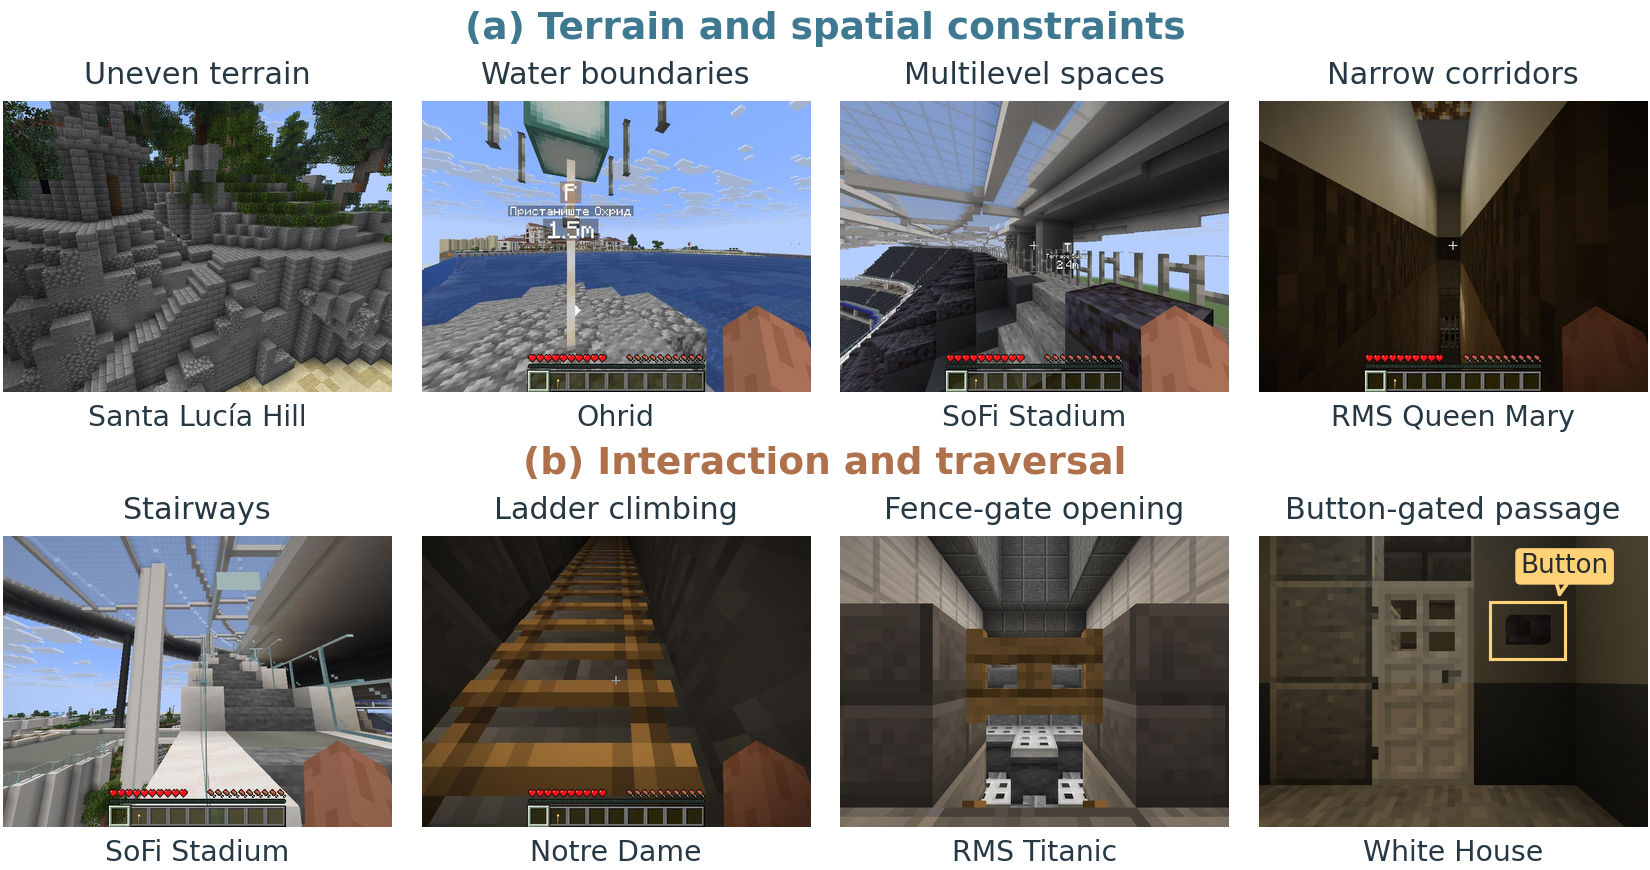
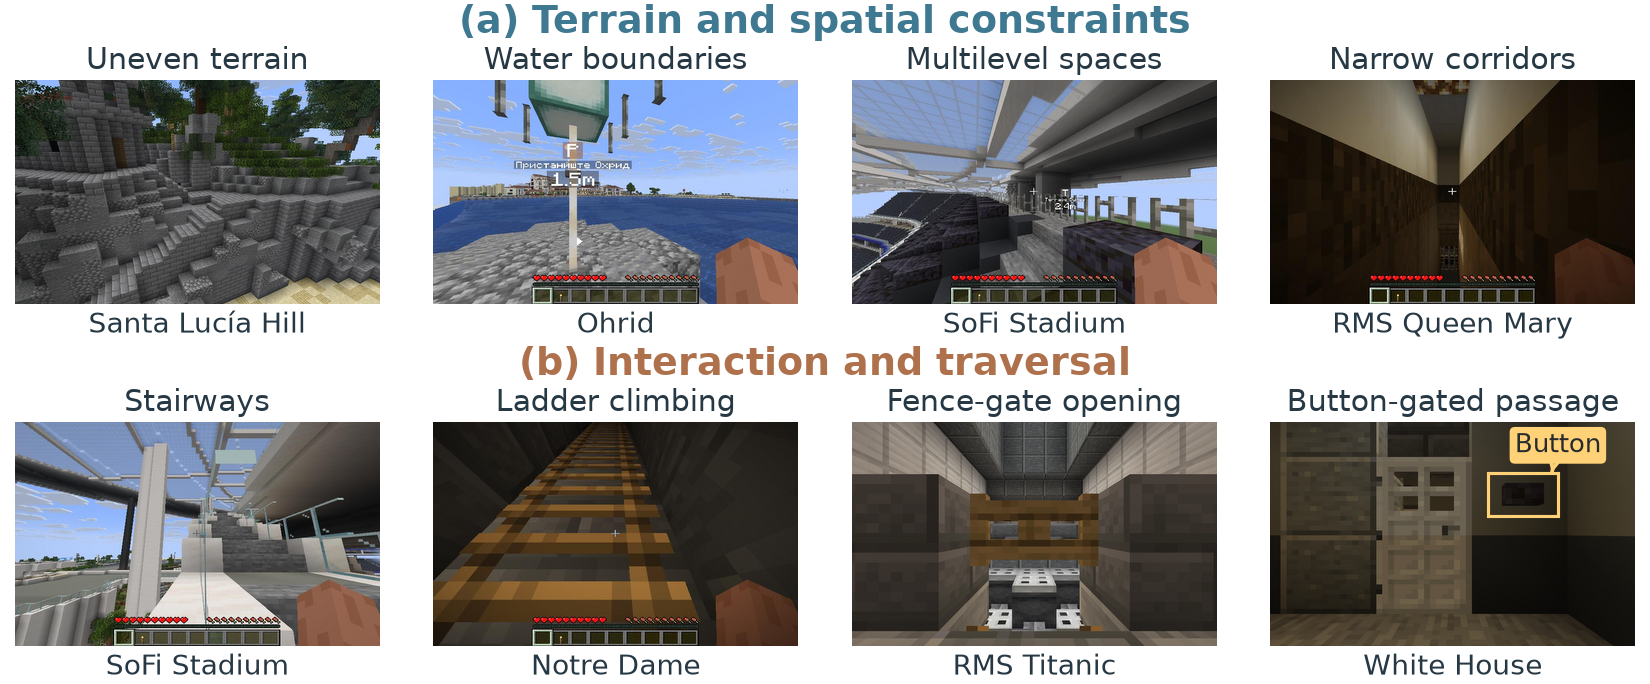
docs: use submission figures and simplify Harbor overview

diff --git a/docs/assets/paper/README.md b/docs/assets/paper/README.md
@@ -1,19 +1,20 @@
 # Paper figures
 
-These three figures are copied from the existing exports used by the manuscript.
-The README introduces the benchmark with the environment overview and interaction
-framework, then shows terrain examples alongside the task description. Image bytes
-are unchanged; the combined payload is about 3 MB. Click an image to inspect the
-full-resolution file.
+These three figures use the PNG exports corresponding to the figures in the
+September 29 manuscript source package (`paper-arxiv.tex`). Each corresponding PDF
+was checked byte-for-byte against the source package. The PNG exports are copied
+unchanged and total about 2.3 MB. Click an image to inspect the full-resolution file.
 
-| Figure | Source figure version | Original export | README asset |
+| Figure | Manuscript figure | Original PNG export | README asset |
 | --- | --- | --- | --- |
-| Environment coverage and task examples | `overview-integrated-v67` | `overview-preview.jpg` | [Overview](environment-overview.jpg) |
-| Agent interaction and independent verification | `framework-draft-v12` | `overview.png` | [Framework](agent-framework.png) |
-| Terrain, spatial constraints, and interactions | `terrain-interactions-20260925` | `terrain-interactions-en.png` | [Terrain](terrain-interactions.png) |
+| Environment coverage and task examples | `task-overview4.pdf` | `task-overview4-refined.png` | [Overview](environment-overview.png) |
+| Agent interaction and independent verification | `agent_loop_overview.pdf` | `agent_loop_overview-refined.png` | [Framework](agent-framework.png) |
+| Terrain, spatial constraints, and interactions | `terrain-interactions-en.pdf` | `terrain-interactions-en-compact.png` | [Terrain](terrain-interactions.png) |
 
-[manifest.json](manifest.json) records image dimensions, sizes, and SHA-256 hashes.
-The source manifests and full manuscript remain outside this code release.
+[manifest.json](manifest.json) records the manuscript version, PDF hashes, PNG
+export names, image dimensions, sizes, and SHA-256 hashes. The exports come from
+`overview-refinement-20260926`; they replace the earlier drafts selected from
+`current_main.tex`. The full manuscript remains outside this code release.
 
 ## Environment overview
 

diff --git a/README.md b/README.md
@@ -20,7 +20,7 @@ in **20 locale variants**. Environments include city streets, parks, palaces,
 hotels, stadiums, and ships. Tasks exercise visual grounding, route planning,
 vertical navigation, and interaction with doors, stairs, and other world features.
 
-![Thirty Minecraft environments and multi-stop task examples in the White House and Ueno Park](docs/assets/paper/environment-overview.jpg)
+![Thirty Minecraft environments and multi-stop task examples in the White House and Ueno Park](docs/assets/paper/environment-overview.png)
 
 **Environments and tasks.** The benchmark covers 20 outdoor and 10 indoor maps.
 The paper's examples show how everyday instructions become ordered visits to named
@@ -245,22 +245,15 @@ excluded from this source release.
 
 ## Run with Harbor
 
-Harbor provides task lifecycle management, container creation, trial scheduling,
-log collection, and verifier execution. **The original agent runs inside the
-`main` container.** Minecraft and the same evaluator run in `world`; actions still
-execute in the original sandbox. A separate verifier reads trusted world results.
-The host runs Harbor and the lifecycle adapter.
+Harbor starts each trial, manages its containers, and collects logs and results.
+It runs the same agent and evaluator as the Linux runner.
 
-```mermaid
-flowchart LR
-    H[Host: Harbor] --> A[main container: original Agent]
-    A -->|actions and claims| W[world container: action sandbox and Minecraft]
-    W -->|screenshots and feedback| A
-    W --> E[world container: original evaluator]
-    H --> V[Separate verifier]
-    E -->|trusted completion evidence| V
-    V --> R[Trial result and logs]
-```
+| Where | What runs there |
+| --- | --- |
+| Host | Harbor schedules trials and manages their lifecycle |
+| `main` container | The original agent calls the model and chooses actions |
+| `world` container | Minecraft, sandboxed action execution, and the original position-based evaluator |
+| Separate verifier | Reads trusted world results and reports the trial outcome to Harbor |
 
 Install [uv](https://docs.astral.sh/uv/getting-started/installation/) on the host
 if needed. Switch branches, build the CPU base image with the same engine, and

diff --git a/docs/README.md b/docs/README.md
@@ -3,7 +3,7 @@
 ## Getting started
 
 - [Project overview](../README.md): Installation, branch selection, model runs, evaluation, results, model-selection examples, and validation scope.
-- [Paper figures](assets/paper/README.md): Environment overview, agent framework, and terrain examples embedded in the README, with source versions and presentation notes.
+- [Paper figures](assets/paper/README.md): Environment overview, agent framework, and terrain examples matched to the September 29 manuscript package, with source versions and presentation notes.
 - [Linux quickstart](linux-quickstart.md): CPU container setup, graphics and sandbox checks, map preparation, credentials, and one-task execution.
 - [Task catalog](task-catalog.md): All 30 selected maps, 180 tasks, locale tags, source manifests, and external asset requirements.
 - [Release notes](anonymous-release.md): Selected runtime fixes, nine waypoint corrections, formal settings, anonymization, and validation limits.

diff --git a/AGENTS.md b/AGENTS.md
@@ -42,7 +42,7 @@
 - Whenever docs are added/renamed/removed, update both `docs/README.md` and the map below in the same change.
 
 ## Documentation Map (Keep In Sync)
-- `docs/assets/paper/README.md`: Existing manuscript figures used in the README, with source versions, file hashes, credits and presentation boundaries.
+- `docs/assets/paper/README.md`: README figures matched to the September 29 manuscript package, with source versions, PDF/PNG hashes, credits and presentation boundaries.
 - `docs/task-catalog.md`: Source-bound 180-task/30-map inventory, locale tags, task schema and separately supplied map assets.
 - `README.md`: Public MineOdyssey overview, CPU quickstart, task and evaluation contract, original/Harbor branches, results, model-selection examples and validation scope.
 - `docs/README.md`: Index for focused docs under `docs/`.
